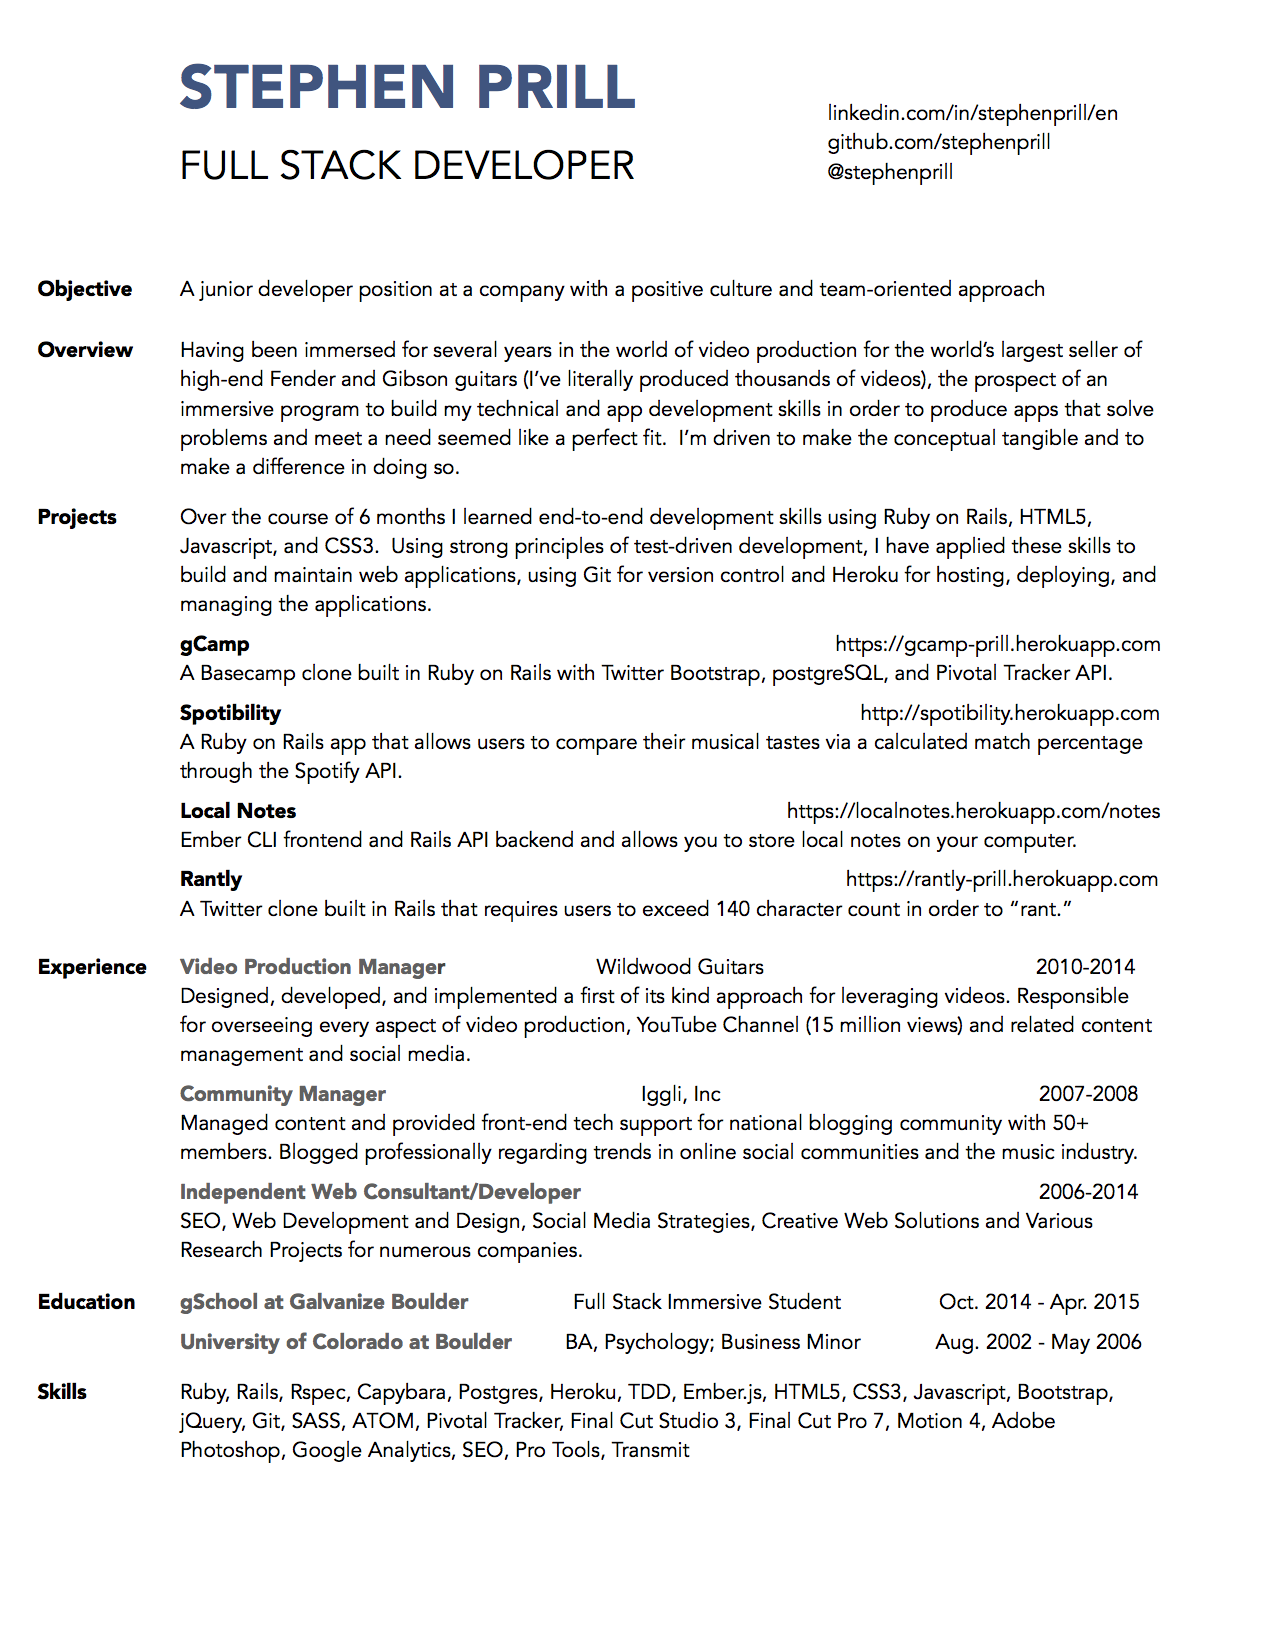
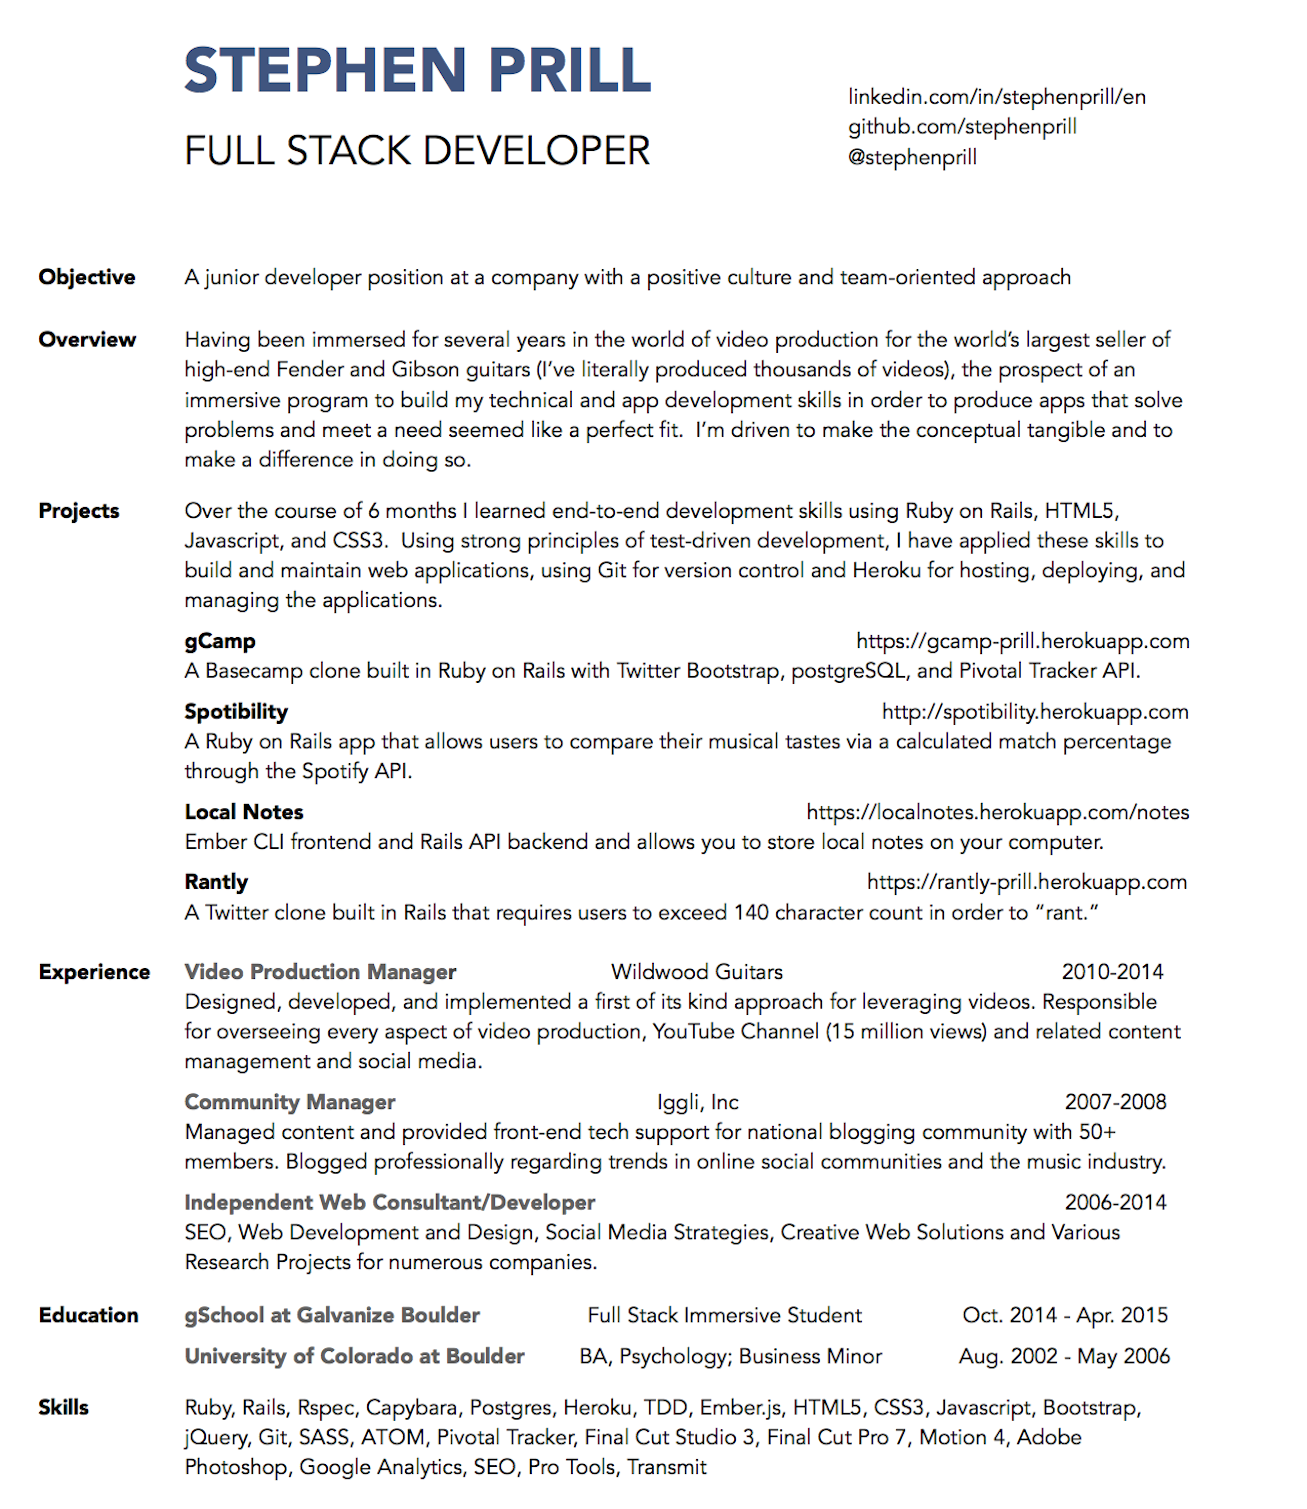
cleaned up css

diff --git a/app/styles/app.css b/app/styles/app.css
@@ -15,42 +15,7 @@
  display:table;
 }
 
-.columns:after {
- clear:both;
-}
-
-.columns {
- zoom:1;
- overflow: hidden;
-}
-
-.clearfix {
-  zoom: 1; /* For IE 6/7 (trigger hasLayout) */
-}
-
-.column {
- float: left;
- white-space: nowrap;
-}
-
-.two.columns .column, .column-two {
- width: 50%;
-}
-
-.columns.three .column, .column-three {
- width: 33.33333%;
-}
-
-.four.columns .column, .column.column-four {
- width: 25%;
-}
-
 /* MAIN */
-
-html {
-  height: 100%;
-}
-
 
 body {
  /* background-image: url(/backgrounds/birdwoodpanel.jpg); */
@@ -81,75 +46,46 @@ li {
   text-decoration: none;
 }
 
-/*  POSITIONAL - MIGHT NOT NEED  */
-
-.pull-left {
-  float: left;
-}
-
-.pull-right {
-  float: right;
+.main {
+  max-width: 1307px;
+  margin: 0 auto;
+  text-align: center;
 }
 
 /* NAV MAIN */
 
-.container-nav {
-  background: rgba(0, 0, 0, 0.3);;
-  margin-top: -7px;
-  margin-left: -10px;
-  margin-right: -10px;
-  margin-bottom: 120px;
-}
-
 .navtop {
-  top: 0;
-  left: 0;
+  margin: 0 auto;
+  max-width: 1307px;
   height: 50px;
-  background: rgba(0, 0, 0, 0.000001);
-  text-align: center;
-  margin-left: auto;
-  margin-right: auto;
-  margin-bottom: 12px;
-
+  background: rgba(0, 0, 0, 0.00);
+  padding: 10px 0 5px 0;
+  margin-bottom: 25px;
 }
 
 .navtop-menu-links {
   font-family: 'Raleway';
   font-size: 25px;
-  height: 50px;
   letter-spacing: .25em;
-  margin-top: 12px;
   float: left;
-  margin-left: 31px;
-  margin-right: auto;
 }
 
 .navfooter {
-  margin-right: auto;
-  margin-left: auto;
-  margin-top: 14px;
   float:right;
-  letter-spacing: 1.5em;
-  max-width: 1307px;
+}
+
+.navfooter a {
+  padding-left: 15px;
 }
 
 /* INDEX MAIN */
-
-.main {
-  height: auto;
-  max-width: 1307px;
-  padding: 20px;
-  margin-left: auto;
-  margin-right: auto;
-  color: white;
-  text-align: center;
-}
 
 .home-title-name {
   padding-top: 45px;
   font-family: 'Lato', sans-serif;
   font-size: 7.0em;
   text-align: center;
+  color: white;
 }
 
 .home-title-title {
@@ -157,26 +93,19 @@ li {
   text-align: center;
   font-size: 4.0em;
   padding-bottom: 65px;
+  color: white;
 }
 
 
 /* PROJECTS */
 
-.project-container {
-  max-width: 1307px;
-}
-
 .project-picture {
   max-width: 100%;
-  height: auto;
-  display: block;
-  margin-left: auto;
-  margin-right: auto;
   border-width: 1px;
   border-color: rgba(0, 0, 0, 0.4);
   border-style: solid;
-  opacity: 0.92;
 }
+
 
 .project-picture:hover {
   border-width: 1px;
@@ -185,10 +114,6 @@ li {
 }
 
 .project-description {
-  max-width: auto;
-  height: auto;
-  margin-left: auto;
-  margin-right: auto;
   font-family: 'Raleway', helvetica;
   background: rgba(0, 0, 0, 0.3);
   padding: 10px;
@@ -197,20 +122,14 @@ li {
   border-left: 1px solid rgba(0, 0, 0, 0.4);
   border-right: 1px solid rgba(0, 0, 0, 0.4);
   font-size: 15px;
+  color: white;
 }
 
 .project-icons {
-  margin-left: 40px;
-  margin-right: auto;
-  text-align: center;
   letter-spacing: 0.9em;
 }
 
-.fa-laptop:hover {
-  color: gray;
-}
-
-.fa-github:hover {
+.project-icons a:hover {
   color: gray;
 }
 
@@ -220,16 +139,8 @@ li {
 
 /* RESUME */
 
-.resume {
-  max-width: 100%;
-  height: auto;
-  margin-right: auto;
-  padding: 5px;
-  margin-left: auto;
-  opacity: 0.9997;
-}
-
 .resume-image {
   max-width: 100%;
-  height: auto;
+  opacity: 0.9995;
+
 }

diff --git a/app/routes/projects.js b/app/routes/projects.js
@@ -28,7 +28,7 @@ export default Ember.Route.extend({
     },
     {
       id: 5,
-      name: "Teenage Mutant Ninja Mardown",
+      name: "Teenage Mutant Ninja Markdown",
       description: "Teenage Mutant Ninja Markdown is an Ember application that live markdown editor that renders HTML in real-time built in Ember.",
       images: 'pictures/tmnm_small.png',
       url: 'https://markdown-prill.herokuapp.com/',
